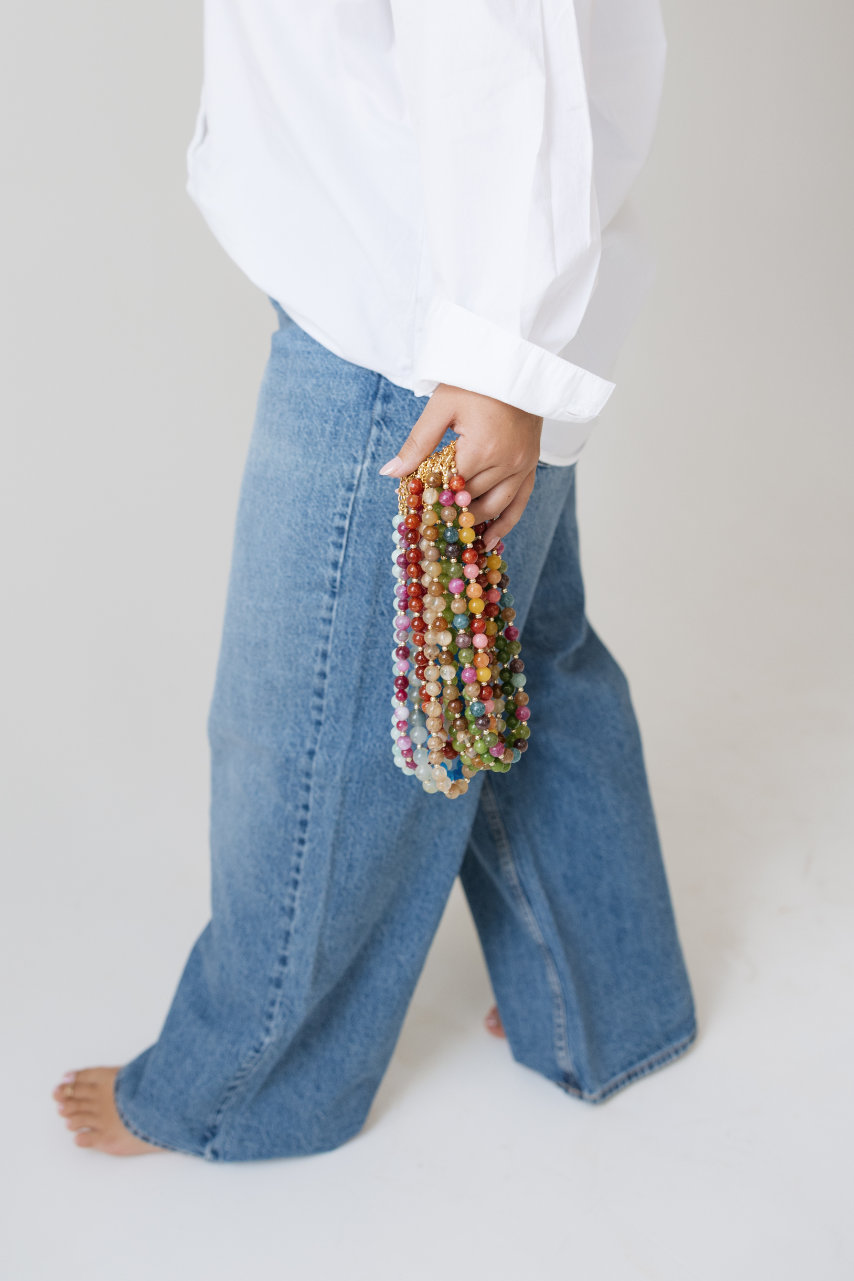
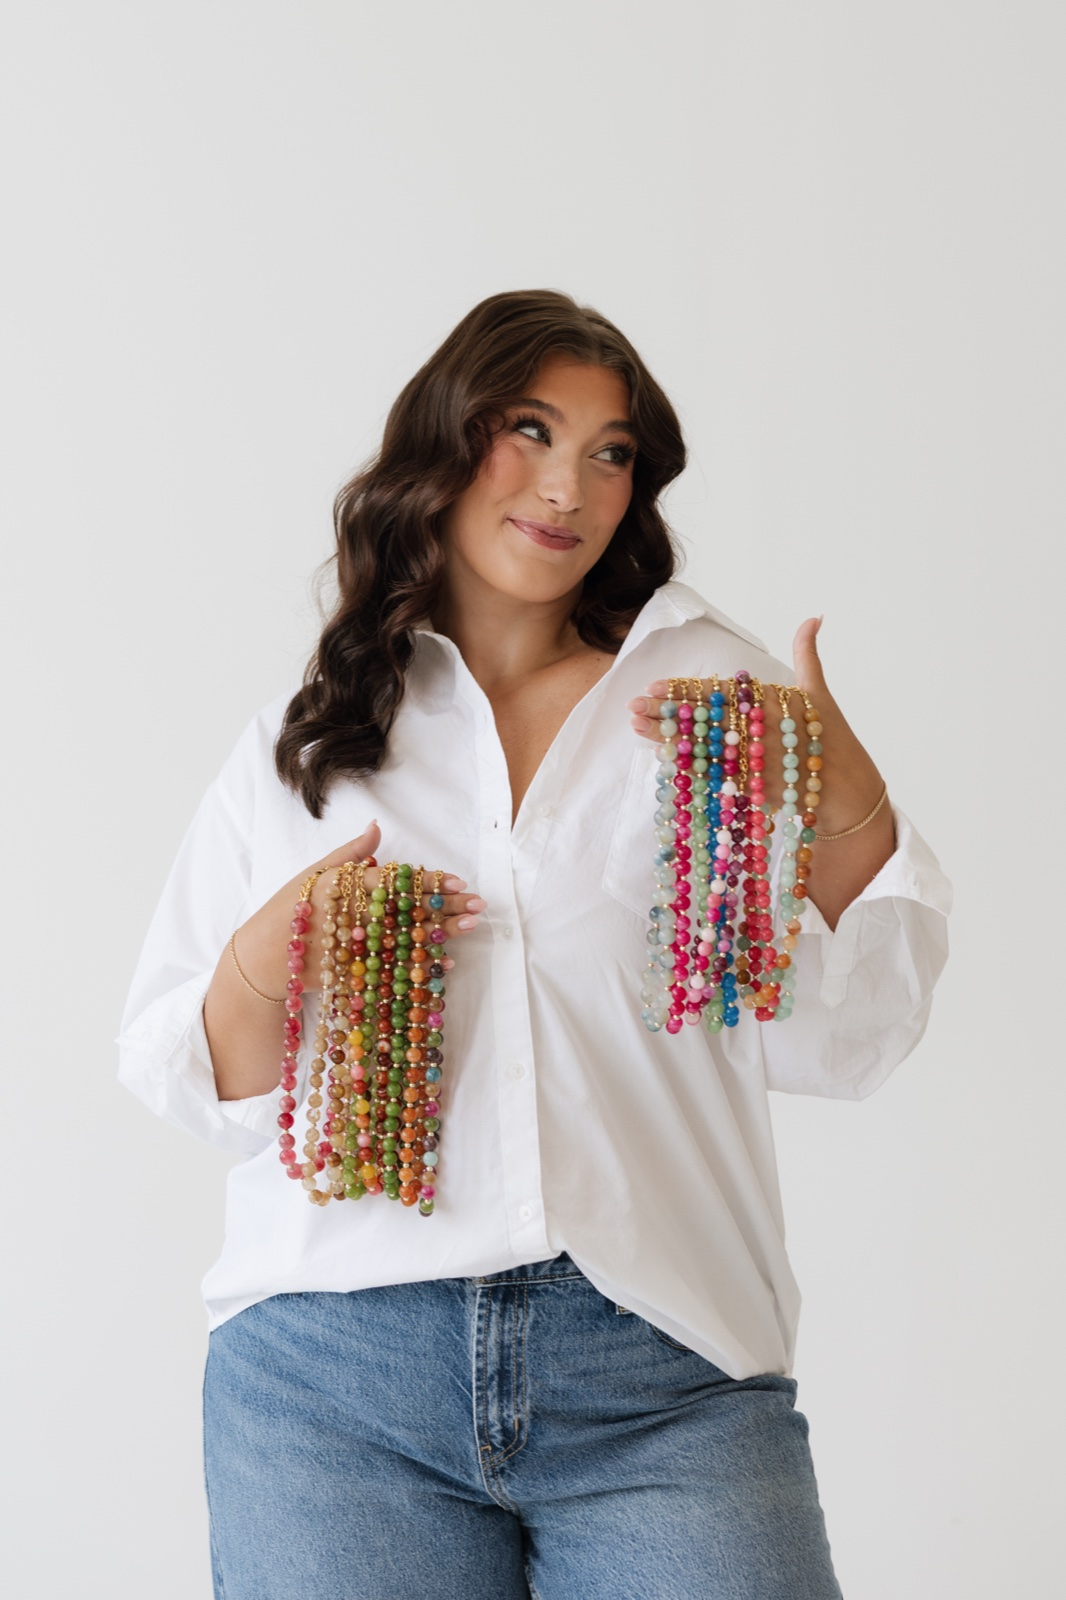
Homepage: real photos for category tiles and Meet the Maker
- Necklaces, Bracelets, and New Arrivals tiles swapped to Taylor's brand
  photos (downscaled to 1600px long side).
- CategoryGrid gains an optional per-card imagePosition so the New
  Arrivals square crop anchors above center and keeps Taylor's head in frame.
- Meet the Maker slot switched from 4:5 to square and now shows the seated
  studio shot with her displays (pre-cropped 1600x1600); the unused
  taylor-holding-necklaces.jpg is removed.

diff --git a/src/components/home/CategoryGrid.tsx b/src/components/home/CategoryGrid.tsx
@@ -6,7 +6,13 @@ import { Stagger, StaggerItem } from "@/components/motion/Stagger";
 import { CATEGORIES, NEW_ARRIVALS_SLUG } from "@/lib/categories";
 import { ArrowRightIcon } from "@/components/ui/icons";
 
-const CARDS = [
+const CARDS: {
+  slug: string;
+  title: string;
+  image: string;
+  /** Tailwind object-position class when the default center crop clips the subject */
+  imagePosition?: string;
+}[] = [
   ...CATEGORIES.map((c) => ({
     slug: c.slug,
     title: c.title,
@@ -16,6 +22,7 @@ const CARDS = [
     slug: NEW_ARRIVALS_SLUG,
     title: "New Arrivals",
     image: "/products/category-new-arrivals.jpg",
+    imagePosition: "object-[50%_40%]",
   },
 ];
 
@@ -39,7 +46,7 @@ export default function CategoryGrid() {
                     alt={card.title}
                     fill
                     sizes="(min-width: 1024px) 20vw, (min-width: 768px) 33vw, 50vw"
-                    className="object-cover transition-transform duration-700 ease-out group-hover:scale-[1.05]"
+                    className={`object-cover transition-transform duration-700 ease-out group-hover:scale-[1.05] ${card.imagePosition ?? ""}`}
                   />
                 </div>
                 <div className="px-4 py-4 text-center">

diff --git a/src/components/home/makers/MakerStoryBand.tsx b/src/components/home/makers/MakerStoryBand.tsx
@@ -23,13 +23,13 @@ export default function MakerStoryBand({ teaser }: { teaser?: string }) {
         <div className="grid items-center gap-10 md:grid-cols-[1fr_1.15fr] md:gap-16">
           <Reveal>
             <div className="relative mx-auto max-w-sm md:max-w-none">
-              <div className="relative aspect-[4/5] overflow-hidden rounded-[2rem]">
+              <div className="relative aspect-square overflow-hidden rounded-[2rem]">
                 <Image
-                  src="/photos/taylor-holding-necklaces.jpg"
-                  alt="Taylor holding handfuls of beaded necklaces"
+                  src="/photos/taylor-seated-displays.jpg"
+                  alt="Taylor seated on the studio floor surrounded by displays of her beaded necklaces and bracelets"
                   fill
                   sizes="(min-width: 768px) 40vw, 85vw"
-                  className="object-cover object-[50%_12%]"
+                  className="object-cover"
                 />
               </div>
               <div className="absolute -bottom-5 right-2 flex h-24 w-24 items-center justify-center rounded-full border border-ink/15 bg-cream text-center md:h-28 md:w-28">
